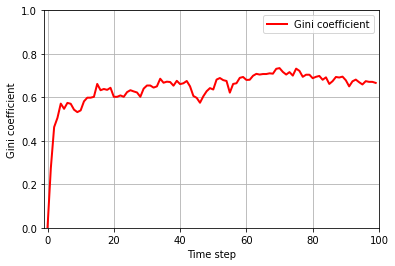
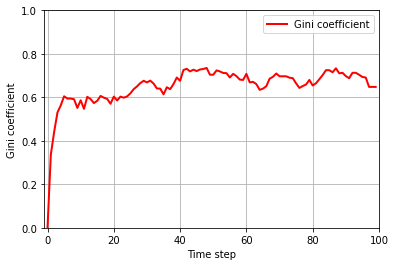
Update documentation

Changed region(s): [[0.1215, 0.2406, 0.9722, 0.5113], [0.1215, 0.5414, 0.1519, 0.7519]]

diff --git a/searchindex.js b/searchindex.js
@@ -1,1 +1,1 @@
-Search.setIndex({docnames:["docs/agent","docs/installation","docs/intro","docs/jupyter","docs/math","docs/ode","docs/pandas","docs/project","docs/python","docs/references"],envversion:{"sphinx.domains.c":2,"sphinx.domains.changeset":1,"sphinx.domains.citation":1,"sphinx.domains.cpp":3,"sphinx.domains.index":1,"sphinx.domains.javascript":2,"sphinx.domains.math":2,"sphinx.domains.python":2,"sphinx.domains.rst":2,"sphinx.domains.std":2,"sphinx.ext.intersphinx":1,"sphinxcontrib.bibtex":7,sphinx:56},filenames:["docs/agent.ipynb","docs/installation.md","docs/intro.md","docs/jupyter.ipynb","docs/math.md","docs/ode.ipynb","docs/pandas.ipynb","docs/project.md","docs/python.ipynb","docs/references.md"],objects:{},objnames:{},objtypes:{},terms:{"0000":0,"000000":6,"0001":5,"0002":8,"00233":9,"0996":8,"100":[0,5,8],"1000":[5,8],"101":0,"1021":9,"1111":9,"1200":5,"130":5,"1415":8,"162":8,"1751":9,"1960":4,"1998":9,"1pigvvn":9,"200":5,"2000":5,"2009":9,"2010":9,"2011":9,"2013":9,"2016":9,"20210722":8,"20210802":8,"2022":2,"205":8,"2391":8,"2456":[],"2744":0,"300":[],"3000":5,"350853":6,"3512":[],"3600":[],"365":5,"4000":[],"4472":[],"4632":0,"4664":[],"500":5,"5000":[0,5,8],"500000":6,"5056":0,"5712":0,"572":9,"584":9,"600":5,"656":[],"774":8,"7915":9,"800":5,"8961":8,"9598":[],"9999":8,"case":[5,8],"class":[0,4,5,6],"default":[1,5,8],"export":6,"f\u00f6r":7,"final":[0,2,3,5],"float":8,"function":[0,3,5,6],"import":[0,2,3,4,5,6],"int":[0,8],"long":7,"new":[1,7,8],"return":[0,5,8],"short":[5,7,8],"static":5,"super":0,"true":[0,5,6,8],"try":7,"v\u00e4gledn":7,"while":[5,7],Axes:8,For:[5,8],Not:8,ODEs:2,One:[2,8],The:[0,1,2,4,5,6,7,8],Their:7,There:[0,4,5,8],These:[0,8],With:5,__dict__:[],__init__:[0,5,8],__weakref__:[],_arg:[],a_list:8,abil:7,abm:[0,2,4],about:8,abov:[5,8],academia:7,access:[2,8],accomplish:[8,9],accord:[5,7,8],accumul:[0,5,8],accur:[],act:[0,4],action:[0,7],activ:[1,7],adapt:4,add:0,addit:[1,5,6,8],adopt:[2,8],advanc:4,affect:4,after:[0,8],agent:[2,4,7,8],agent_df:0,agent_idx:0,agent_report:0,agent_wealth:0,agentid:0,air:5,alc_with_lowest_bp:8,alcohol:8,algorithm:8,alic:6,align:[4,5,8],alik:7,all:[0,2,4,7,8],allow:[0,1,2,3,5,6],almost:8,alpha:[4,5],alreadi:[7,8],also:[0,3,4,5,6,8],altern:[5,8],alwai:8,amount:[7,8],anaconda:1,analysi:[0,6,8,9],analyt:8,andersen:[7,9],ani:[2,7],anlys:6,anoth:5,appeal:4,appear:[4,5],append:5,applic:[3,4],approach:[2,4,5],approx:5,approxim:[5,7],arang:3,area:[2,8],arg:5,arguabl:2,argument:[5,8],around:[0,4],arrai:5,arrang:8,artist:8,as13:[2,7,9],ascend:6,associ:[5,8],asterisk:1,attribut:0,author:[2,8],auto:8,automat:[6,8],autonom:0,autosc:8,avail:[2,3,5,8],averag:6,axes:5,axhlin:[3,6],axi:8,b_dict:8,back:4,bai98:[4,7,9],bailei:[4,7,9],bar:[6,8],barcontain:8,barh:8,barri:7,barstack:8,base64:[],base:[1,2,4,7,8],basic:[2,4,5,8],bb1220:2,beatric:6,becom:[2,5],been:8,befor:[],begin:[0,1,4,5],behav:[7,8],behavior:0,behaviour:4,belong:0,below:[0,3,8],benefit:[6,8],best:2,beta:[4,5],better:[2,5],between:[7,8],big:[0,5],bin:[0,8],biochem:[7,9],biolog:[4,5,7],biologi:[2,9],biologist:7,biotech:9,biotechnolog:[2,4,9],bit:1,bitrat:[],blit:[],blood:7,blueprint:8,bodi:7,boil:8,bone:7,book:[2,7,8],bool:8,bordel:9,both:[0,3,4],bottom:8,bp9701269:9,browser:[1,3],build:[0,4],built:[6,8],builtin:[],bygg:9,c6h11oh:8,c6h5:8,cach:[],cache_frame_data:[],calcul:[0,8],call:[5,7],callabl:[],callback:[],can:[0,1,3,4,5,6,7,8],cannot:8,canva:2,capit:8,catalyst:7,catalyz:7,categori:0,cb1020:2,cbn11:[4,7,9],ceasar:6,cell:[0,1,7,9],cellmat:0,cellular:7,celsiu:8,center:8,central:5,certain:[5,6],certifi:1,ch2oh:8,ch3:8,ch3oh:8,chanc:8,chang:[3,5],chapter:7,chart:8,checkpoint:3,chemic:[7,8],choh:8,choic:[0,2,5,8],choos:2,chosen:8,circ:5,circl:5,clean:6,clear:[4,8],cleft:7,code:[1,2,8],codec:[],coeffici:[0,4],coher:8,collect:[4,5],collector:0,color:[0,3,6,8],column:[0,6,8],com:9,combin:3,come:[1,3,5],comma:6,command:[1,3],comment:3,common:[7,8],commun:[7,8],compar:[3,8],comparison:[5,8],compart:7,complet:[],complex:[4,7,8],compon:7,compos:4,compound:7,comput:[0,1,4,5,8],compute_gini:0,concern:[5,8],conda:1,conduct:[2,5],conjunct:8,connect:7,consecut:[],consid:5,constant:5,construct:6,constructor:8,contain:[0,1,3,5,7,8],contrast:7,contribut:[2,8],control:6,conveni:[5,8],convent:3,convert:[0,3],copi:3,copyright:[],core:9,cornerston:4,correspond:[5,6],cost:5,could:7,count:[6,8],counterpart:7,cours:[2,5,7],creat:[0,1,2,4,5,8],creation:8,cross:[0,7],csv:6,ctrl:3,cumul:8,current:0,current_fram:[],cursor:3,cvijov:[4,7,9],cyclohexanol:8,d2u_dx2:5,dai:5,damp:5,dash:3,data1:8,data2:8,data:[],datacollect:0,datacollector:0,datafram:0,datapoint:8,dataset:8,date:[2,4],dator:9,david:6,death:5,decid:[],decis:[2,4],decreas:5,deepen:2,def:[0,5,8],default_mod:[],defin:[0,5,8],degre:8,delai:[],delivar:2,delta:[4,5],denot:5,densiti:8,depend:[1,3],depict:5,deriv:[0,3,5],describ:[4,5,6,8],descript:[2,8],descriptor:[],design:7,detail:[3,8],determin:[0,7],develop:[7,8],deviat:8,diagon:0,dict:[],dictionari:8,dictonari:[6,8],did:5,diff:8,differ:[0,2,7,8],differenti:[2,4],difficult:4,diffus:[5,7],dimens:8,dimension:[5,8],direct:8,directli:[],disabl:[],disciplinari:7,discret:5,discuss:2,diseas:[4,7],displai:[6,8],disposit:7,distinguish:7,distribut:[0,8],divid:[5,8],doan:8,doc:[1,2],document:[2,3],doi:9,doing:[3,5],dot:8,dpi:[],draw:8,drawn:8,drive:2,dropbox:2,dtype:[6,8],due:5,dure:[],dydt:5,dynam:[4,5],each:[0,2,8],earli:4,eat:7,ecosystem:7,edg:8,edit:[2,3,9],effect:8,effici:8,either:8,elapsed_tim:[],element:[3,6,7,8],elementari:3,els:7,emb:[],embed:[],embed_fram:[],embed_limit:[],empti:[0,8],enabl:[1,5,7,8],encapsul:8,encod:[],end:[2,4,5,8],engin:[2,5,6,7,8,9],enter:[0,1,3],entiti:0,enumer:[0,8],env:1,environ:[1,4,7],enzym:7,epidemiolog:4,equal:[4,5,6,8],equat:[2,3,4],equip:8,equival:[],erl:9,error:5,etc:[3,6,8],ethanol:8,euler:[],euler_step:5,eva:9,even:8,event:[],everi:[0,2,5,7],everyth:[7,8],evid:5,evolut:5,evult:[],exact:5,exam:6,examin:6,exampl:[2,5,8],exceed:[],excel:[6,7],except:8,exchang:7,excitatori:7,exclud:8,execut:[1,8],exemplifi:5,exhaust:2,exist:[],exlibrisgroup:9,exp:[5,8],expect:[7,8],experi:[2,8],explain:[3,4],expos:0,extens:[3,8],extra:[],extra_anim:[],extra_arg:[],extract:0,factor:8,factori:9,fallback:[],fals:[0,8],famili:5,famou:7,far:[2,3],farg:5,fast:8,faster:[7,8],favorit:8,feel:[7,8],few:1,ffmpeg:[],field:4,fig:[3,5],fignam:8,figsiz:[3,5],figur:[3,5],file:[3,6,8],filenam:[],fill:[2,8],filter:8,final_wealth_df:0,find:[0,5,7],first:[0,5,6,7,8],fix:8,flexibl:8,float64:6,focal:2,focu:[2,4],folder:2,follow:[1,3,7,8],forest:4,forg:1,form:[2,3,7,8],format:[2,3,6,8],former:4,formula:8,fourth:5,fps:[],frac:[0,4,5,8],fraction:8,frame:5,frame_numb:5,framework:0,free:[7,8],friction:5,from:[0,1,2,3,4,5,7,8],func:[],funcanim:5,further:[3,4],futur:[2,7,9],gamma:[4,5],gaussian:8,gca:[0,3,5,6,8],gen_funct:[],gener:[0,2,5,7,8],genr:[],genrer:7,geometr:8,geometri:8,get:[1,3,5,8],get_agent_vars_datafram:0,get_cell_list_cont:0,get_model_vars_datafram:0,get_neighborhood:0,gif:[],gini:0,github:9,give:[0,8],give_monei:0,given:[2,5,8],gledn:9,global:0,good:[2,5,7,8],googl:2,govern:0,gradual:5,granular:4,great:8,greater:[5,8],grid:[0,5,8],ground:7,group:[0,2,7],growth:5,guid:7,guidelin:2,h264:[],half:8,handl:[0,6],harmon:5,has:[0,5,6,7,8],have:[2,3,7,8],head:[0,6],heattransferwal:5,height:[0,8],help:[],here:[],herod:[2,7,9],heurist:4,hierarch:2,high:8,higher:5,highli:8,hist2d:8,hist:[0,8],histogram:8,histogram_bin_edg:8,histtyp:8,hiv:7,hold:0,horizont:8,host:9,hour:[],howev:[2,4,5,8],html5:[],html:1,http:[1,9],human:3,idea:8,ident:8,identifi:5,idxmax:0,ignor:8,iii:2,illustr:[4,5],imagin:8,implement:[0,2,3,5,8],inch:[],includ:[0,1,3,7,8],include_cent:0,increas:[0,4,5],increment:8,independ:8,index:8,indic:[0,1,4],indispens:8,individu:[0,2,4,8],industri:[4,7,9],infect:7,infecti:4,infer:[],inform:7,inherit:[],inhibitori:7,init_func:[],initi:5,ink:7,inner:[],input:8,inspir:[4,7],instanc:4,instanti:0,instead:8,integ:[0,8],integr:[5,8],intel:8,interact:[0,1,4,5,7],interest:7,interfac:[0,3],intermedi:5,interneuron:7,interpret:8,interv:[3,5],introduc:[3,5,7,8],introduct:[4,7,8,9],intuit:[2,8],invest:7,invit:[5,8],involv:5,ipynb:3,isol:8,isopropanol:8,item:8,iter:[],iterable_of_artist:[],itertool:[],its:[0,3,5,7,8],itself:7,jake:[8,9],jakevdp:9,jame:9,javascript:0,jen:9,json:3,jupyt:1,jupyterlab:1,just:[],k_1:5,k_2:5,k_3:5,k_4:5,keep:2,kei:[3,4,5,8],kept:8,kernel:8,keyword:8,kilobit:[],kind:6,kinet:7,knowhow:7,knowledg:5,known:5,kth:[2,9],kurslitteratur:9,kvalitet:9,kwarg:8,label:[5,8],lambda:5,landscap:0,languag:2,larg:[1,7,8],last:[0,8],latent:7,latest:1,launch:0,ldot:0,lead:7,leader:2,leadership:2,learn:[4,7],least:2,leav:3,left:8,legend:[5,8],len:[0,8],length:8,leq:[0,5],less:[5,8],let:[0,5,8],level:[0,7],librari:8,life:7,lightgrei:6,like:[6,7,8],limit:[2,4,5,6,7],limt:0,line2d:5,line:[1,3,5,6,8],linear:5,lineplot:8,linewidth:[3,8],link:3,linspac:5,linux:[1,8],list:[0,1,2,3,6,8],live:7,load:2,locat:8,log:[2,8],logic:8,loop:8,lotka:[4,5],lotka_volterra:5,lower:8,lowest:8,lowest_bp:8,maco:[1,8],macroscop:4,made:[2,4,5,8],magnitud:8,mai:[3,4,5,7,8],main:4,make:[2,3,4,5,7],makinng:4,mammal:7,manag:[0,1],mani:7,manipul:8,manner:3,mapl:[2,9],marija:9,mark:[1,2],markdown:3,mask:8,match:8,materi:[2,7],math:8,mathbf:5,mathemat:[2,3,5,7,8,9],matlab:[2,9],matmul:8,matplotlib:[0,1,3,5,6,8],matric:8,matrix:8,max:[0,6,8],max_wealth:0,maximum:0,mean:[2,5,6,8],mechan:5,mediat:7,medium:5,meet:2,member:[2,4,5],membership:8,membran:7,mentor:2,merg:[3,6],mesa:[1,8],metabol:7,metadata:[],metal:7,methanol:8,method:[0,2,3,6,8],metric:0,microbi:9,microscop:4,microsoft:[2,6],mid:8,might:[],millisecond:[],min:[5,6,8],miniconda:1,minim:1,minor:2,minut:2,mixtur:7,mkl:8,mode:3,model:[2,7,8,9],model_df:0,model_report:0,moder:7,modern:4,modifi:1,modul:[0,3,6],molecul:7,moneyag:0,moneymodel:0,moor:0,more:[3,4,5,8],most:[2,4,5,6,8],move:[0,9],move_ag:0,movement:7,movi:[],moviewrit:[],mp4:[],much:7,mulitpl:8,multi:[2,8],multigrid:0,multipl:[0,1,8],multistep:7,must:8,myenv:1,mymovi:[],name:[1,2,4,5,6,8],natur:[4,5,8],nbin:8,ndarrai:8,need:[2,5,7,8],neuron:7,neurotransmitt:7,never:8,new_frame_seq:[],new_posit:0,new_saved_frame_seq:[],newtonian:5,next:[],nielsen:9,non:[0,8],none:8,nonliv:7,nontrivi:5,nonzero:0,normal:[7,8],note:8,notebook:[1,5,8],notifi:[],now:1,nstep:[],num:5,num_ag:0,number:[0,1,4,8],number_el:5,numer:[4,8],numpi:[1,3,5,8],obj:[],object:[5,6],observ:7,obtain:[2,5],obviou:4,obvious:8,occupi:7,occur:[0,7],och:9,odeint:5,offer:8,offic:2,omit:[],omnipres:7,onc:7,one:[0,1,2,3,5,8],one_agent_wealth_df:0,onedr:2,ones:[5,8],onli:[1,5,7,8],open:[1,8],openmp:8,opportun:[5,9],optim:8,option:8,orbit:5,order:[0,5,8],ordinari:2,org:9,organ:[0,3,7],orient:5,oscil:5,other:[0,1,3,7,8],our:[0,5,7],out:[7,8],outcom:0,outer:[],outlier:8,output:[],outsid:2,over:[5,8],overal:[0,7],overemphas:8,overleaf:2,overrid:[],packag:1,page:2,panda:[0,8],paragraph:3,paramet:[0,4,5,8],parametr:5,parasit:7,part:2,partial:5,particip:2,particl:[5,7],particular:3,pass:[5,6,8],past:[3,9],patch:8,patches0:8,patches1:8,path_to_fil:6,pdf:[2,8],peer:2,per:[2,8],perform:[5,6,8],period:[5,7],permalink:9,permeas:7,person:2,phase:5,phenomena:[2,4,7],phenomenolog:4,phenylmethanol:8,pillow:[],pip:1,place_ag:0,plai:5,platform:8,plot:3,plot_setup:[],plot_upd:5,plt:[0,3,5,6,8],plu:8,png:8,point:[2,5,6,8],polygon:8,popul:[0,4,5],portabl:2,pos:0,posit:[0,3,5],possibl:[7,8],possible_step:0,postsynapt:7,potenti:[7,8],power:[4,6],powershel:1,ppm:5,practic:[2,5,8],predat:[4,5],predatorpreymodel:5,predeifin:8,predict:4,prei:[4,5],preliminari:2,present:[2,5,8],press:3,presynapt:7,previou:[],primo:9,principl:2,print:[0,6,8],probabl:8,problem:[7,8],process:[4,7],processor:8,product:[7,8],prog:9,program:[2,3,5],progress:[],progress_callback:[],project:[2,8],projektarbet:[7,9],projektledn:9,promin:5,promot:4,prompt:1,propag:5,properti:[5,8],propog:5,proport:5,protein:7,prototyp:8,provid:[3,4,5,7,8],pseudo:8,pyplot:[0,3,5,6,8],python:[0,1,2,3,5,9],qquad:5,quad:5,qualiti:[],question:7,quicker:7,quit:5,r_0:4,rais:8,rand:8,random:[0,7,8],randomactiv:0,randomli:[0,2],randrang:0,rang:[0,2,5,8],rate:[5,7],rather:8,ration:2,raw:8,reach:7,reaction:7,read:[6,8],read_excel:6,readabl:[3,8],readi:1,readili:[3,8],readthrough:7,real:7,recent:4,recommend:[1,8],record:[0,2,4],reduc:5,refer:[1,2,4,5,7,8],reflect:2,regardless:[],regener:7,regul:7,regular:0,reilli:9,rel:8,relat:[5,7],releas:7,relev:8,remain:[0,8],rememb:3,repeat:[],repeat_delai:[],repeatedli:[],replac:5,report:2,repositori:1,repres:[4,5,8],represent:[],reproduc:8,reproduct:4,requir:[0,5,7,8],reshap:[6,8],resiz:[],resolut:[],respect:[0,4,5],result:[3,5,6,8],retain:7,retriev:1,reveal:[5,8],revers:8,review:[2,4,7],rice:8,rich:2,right:8,righthand:8,risk:4,rk4:5,role:[2,5],ronald:9,routin:8,row:0,rule:[4,7],run:[1,3,5],runtimeerror:[],rwidth:8,sai:6,same:[0,8],satur:7,save:[3,5,8],save_count:[],savefig:8,savefig_kwarg:[],scalar:[5,8],scale:[4,8],schedul:0,scheme:5,schwenck:[7,9],scienc:[5,8],scientif:1,scipi:[1,5,8],scott:8,script:8,search:8,sec:5,second:[2,5,8,9],section:[0,3],see:[2,4,8],seed:8,seemingli:4,seen:5,select:[2,6,7],self:[0,2,5,8],semant:8,sens:[2,7],separ:[2,7,8],separatp:6,seper:3,sequenc:[0,8],sergio:9,seri:0,serv:[5,7],server:0,set:[2,4,5,8],set_data:5,set_text:5,setp:[0,3,5,6,8],sever:[2,6,8],sh09:[2,7,9],shall:5,shape:8,share:[2,8],sheet1:6,sheet:[2,6],sheet_nam:6,shift:[3,8],shonkwil:[2,7,9],shorter:8,should:[1,2,5,8],show:[0,3,5,6,8],side:8,sight:5,sigma:8,signal:7,signatur:[],significantli:8,similar:7,simpl:8,simplest:7,simpli:[],simul:4,sin:[3,5],singl:[0,4,8],sit:7,size:[],skill:[2,7],skillset:7,slide:2,slower:8,slowli:7,small:1,smaller:[5,8],soft:7,softwar:[5,8],solid:5,solubl:7,solut:[2,8],solv:5,some:5,someon:8,sort:[0,6],sort_valu:6,sourc:[1,7,8],space:[0,5,7,8],span:7,spatial:[],specif:[0,7,8],specifi:[4,8],speed:[],split:3,spread:4,spring:5,springer:9,sqrt:8,srcform:[],stabil:5,stabl:[5,8],stack:8,standard:[6,8],start:[0,1,3,8],state:[5,8],statement:[0,1,8],statist:6,std:[6,8],stdout:[],step:[0,5,8],step_idx:0,stepfil:8,stochast:4,stone:8,store:[5,8],str:8,straighforward:5,straightforward:5,strategi:8,strength:4,string:8,strongli:8,structur:0,student:[2,6,7,9],studentlitteratur:9,studi:[5,7],sturg:8,subject:[],substrat:7,suggest:3,suit:2,sum:[0,7,8],sum_:0,summar:4,superior:5,suppli:[],support:[1,8],synapt:7,syntax:8,system:[0,1,4,5,7],t_0:5,t_insid:5,t_outsid:5,tab:3,tag:[],tail:0,take:[2,5,7,8],target:2,task:8,team:[2,8],technic:2,teknik:9,temperatur:[5,7],tempt:8,tend:7,term:[5,8],termin:1,test:8,text:[5,8],than:[5,7,8],thei:[1,5,7],them:[0,2,7],themselv:0,thereaft:5,therefor:2,thermal:5,thi:[0,1,2,3,5,6,7],thick:5,think:7,third:5,those:[4,6,7],thought:6,thread:8,three:[0,2,3,7],through:[],thu:[2,5,7],time:[0,5,7,8],time_text:5,timedanim:[],tissu:7,titl:[0,2,3,5,7,8],tn_cdi_springer_books_10_1007_978_0_387_70984_0:9,to_html5_video:[],to_jshtml:[],togeth:[5,8],too:[],tool:[0,2,6,8],top:8,topic:7,topolog:4,total:[0,8],total_fram:[],tour:[8,9],toward:[2,8,9],track:[4,7],tradit:8,train:[2,7],transform:[5,7],transmembran:7,transmiss:7,transport:7,transpos:8,treat:[7,8],treatment:7,tree:4,triangl:8,trigger:7,trivial:5,tupl:8,turn:[3,5],turnov:7,twinx:5,two:[0,2,4,5,8],tyical:8,type:[3,7],typic:[1,4,5,7,8],uncatalyz:7,under:8,underli:[6,8],understand:[0,2],unequ:8,unfil:8,uniqu:3,unique_id:0,unit:0,unless:8,unus:[],updat:5,upload:2,upon:2,upper:8,uptak:7,url:9,use:[0,2,3,4,5,7,8],used:[0,2,5,7,8],useful:1,user:[2,5,8],uses:8,using:[0,2,3,6,8],usual:[5,8],vai:5,valu:[0,5,6,8],valuabl:7,van16:[8,9],vanderpla:[8,9],variabl:5,variat:5,variou:[4,7],vast:8,vector:8,veloc:5,veri:[2,5,7],versatil:2,version:[1,2],vertic:8,via:[3,8],video:[],viru:7,visual:[0,8],volterra:[4,5],w3school:8,wai:[6,8],walk:0,wall:[],water:7,weak:4,wealth:0,web:[1,3,8],websit:1,weight:8,welcom:2,well:[2,7],were:[],what:0,when:[5,8],where:[0,4,5,8],whether:7,which:[0,1,2,4,5,7,8],whirlwind:[8,9],whirlwindtourofpython:9,wide:[2,5],widespread:2,width:[0,8],window:[1,8],without:[],word:[0,8],work:[1,2,4,5,6,8],would:[6,8],wrangl:6,write:5,writer:[],written:[1,3,4,5,7,8],www:9,x_i:0,xlabel:[0,3,5,8],xlim:[0,3,5,8],xls:6,xtick:0,xticklabel:6,y0_l:5,y_1:5,y_2:5,year:2,yet:2,yield:8,ylabel:[0,3,5,6,8],ylim:[0,3,5,8],you:[1,2,3,6,7,8],your:[0,1,2,3,6,7,8],ytick:0,zero:[5,8],zlib:1,zorder:[]},titles:["Agent-based modeling","Software installation","Introduction","Jupyter notebook","Mathematical modeling","Differential equations","Pandas","Project work","Python for this course","References"],titleterms:{"class":8,"function":8,"import":8,ODE:5,ODEs:5,agent:0,analys:6,analysi:5,anim:5,arrai:8,auto:3,base:0,bonu:5,cell:3,code:3,collect:0,commun:2,complet:3,condit:8,content:2,cours:8,creat:6,data:[0,6,8],datafram:6,deliver:2,dictionari:6,differ:5,differenti:5,document:8,equat:5,essenti:3,euler:5,exampl:3,explicit:5,fdm:5,figur:8,finit:5,form:5,from:6,heat:5,help:8,implicit:5,instal:1,introduct:2,iter:8,jupyt:3,keyboard:3,kutta:5,librari:5,manipul:6,materi:5,mathemat:4,mesa:0,method:5,model:[0,4,5],modul:8,motiv:8,necess:8,notebook:3,numer:5,object:8,oper:8,ordinari:5,organ:2,orient:8,panda:6,plot:[0,5,6,8],program:8,project:7,propos:7,python:[6,8],refer:9,result:0,run:0,rung:5,shortcut:3,simul:0,softwar:1,solut:5,solver:5,some:8,spreadsheet:6,store:0,text:3,thi:8,through:5,tip:3,transfer:5,type:8,wall:5,work:7}})
+Search.setIndex({docnames:["docs/agent","docs/installation","docs/intro","docs/jupyter","docs/math","docs/ode","docs/pandas","docs/project","docs/python","docs/references"],envversion:{"sphinx.domains.c":2,"sphinx.domains.changeset":1,"sphinx.domains.citation":1,"sphinx.domains.cpp":3,"sphinx.domains.index":1,"sphinx.domains.javascript":2,"sphinx.domains.math":2,"sphinx.domains.python":2,"sphinx.domains.rst":2,"sphinx.domains.std":2,"sphinx.ext.intersphinx":1,"sphinxcontrib.bibtex":7,sphinx:56},filenames:["docs/agent.ipynb","docs/installation.md","docs/intro.md","docs/jupyter.ipynb","docs/math.md","docs/ode.ipynb","docs/pandas.ipynb","docs/project.md","docs/python.ipynb","docs/references.md"],objects:{},objnames:{},objtypes:{},terms:{"0000":0,"000000":6,"0001":5,"0002":8,"00233":9,"0996":8,"100":[0,5,8],"1000":[5,8],"101":0,"1021":9,"1111":9,"1200":5,"130":5,"1415":8,"162":8,"1751":9,"1960":4,"1998":9,"1pigvvn":9,"200":5,"2000":5,"2009":9,"2010":9,"2011":9,"2013":9,"2016":9,"20210722":8,"20210802":8,"2022":2,"205":8,"2391":[],"2456":[],"2744":[],"300":[],"3000":5,"3368":0,"350853":6,"3512":[],"3600":[],"365":5,"4000":[],"4408":0,"4472":[],"4632":[],"4664":[],"4939":8,"500":5,"5000":[0,5,8],"500000":6,"5056":[],"5304":0,"5632":0,"5712":[],"572":9,"584":9,"600":5,"6340":8,"656":[],"774":[],"789":8,"7915":9,"800":5,"8961":[],"9598":[],"9999":8,"case":[5,8],"class":[0,4,5,6],"default":[1,5,8],"export":6,"f\u00f6r":7,"final":[0,2,3,5],"float":8,"function":[0,3,5,6],"import":[0,2,3,4,5,6],"int":[0,8],"long":7,"new":[1,7,8],"return":[0,5,8],"short":[5,7,8],"static":5,"super":0,"true":[0,5,6,8],"try":7,"v\u00e4gledn":7,"while":[5,7],Axes:8,For:[5,8],Not:8,ODEs:2,One:[2,8],The:[0,1,2,4,5,6,7,8],Their:7,There:[0,4,5,8],These:[0,8],With:5,__dict__:[],__init__:[0,5,8],__weakref__:[],_arg:[],a_list:8,abil:7,abm:[0,2,4],about:8,abov:[5,8],academia:7,access:[2,8],accomplish:[8,9],accord:[5,7,8],accumul:[0,5,8],accur:[],act:[0,4],action:[0,7],activ:[1,7],adapt:4,add:0,addit:[1,5,6,8],adopt:[2,8],advanc:4,affect:4,after:[0,8],agent:[2,4,7,8],agent_df:0,agent_idx:0,agent_report:0,agent_wealth:0,agentid:0,air:5,alc_with_lowest_bp:8,alcohol:8,algorithm:8,alic:6,align:[4,5,8],alik:7,all:[0,2,4,7,8],allow:[0,1,2,3,5,6],almost:8,alpha:[4,5],alreadi:[7,8],also:[0,3,4,5,6,8],altern:[5,8],alwai:8,amount:[7,8],anaconda:1,analysi:[0,6,8,9],analyt:8,andersen:[7,9],ani:[2,7],anlys:6,anoth:5,appeal:4,appear:[4,5],append:5,applic:[3,4],approach:[2,4,5],approx:5,approxim:[5,7],arang:3,area:[2,8],arg:5,arguabl:2,argument:[5,8],around:[0,4],arrai:5,arrang:8,artist:8,as13:[2,7,9],ascend:6,associ:[5,8],asterisk:1,attribut:0,author:[2,8],auto:8,automat:[6,8],autonom:0,autosc:8,avail:[2,3,5,8],averag:6,axes:5,axhlin:[3,6],axi:8,b_dict:8,back:4,bai98:[4,7,9],bailei:[4,7,9],bar:[6,8],barcontain:8,barh:8,barri:7,barstack:8,base64:[],base:[1,2,4,7,8],basic:[2,4,5,8],bb1220:2,beatric:6,becom:[2,5],been:8,befor:[],begin:[0,1,4,5],behav:[7,8],behavior:0,behaviour:4,belong:0,below:[0,3,8],benefit:[6,8],best:2,beta:[4,5],better:[2,5],between:[7,8],big:[0,5],bin:[0,8],biochem:[7,9],biolog:[4,5,7],biologi:[2,9],biologist:7,biotech:9,biotechnolog:[2,4,9],bit:1,bitrat:[],blit:[],blood:7,blueprint:8,bodi:7,boil:8,bone:7,book:[2,7,8],bool:8,bordel:9,both:[0,3,4],bottom:8,bp9701269:9,browser:[1,3],build:[0,4],built:[6,8],builtin:[],bygg:9,c6h11oh:8,c6h5:8,cach:[],cache_frame_data:[],calcul:[0,8],call:[5,7],callabl:[],callback:[],can:[0,1,3,4,5,6,7,8],cannot:8,canva:2,capit:8,catalyst:7,catalyz:7,categori:0,cb1020:2,cbn11:[4,7,9],ceasar:6,cell:[0,1,7,9],cellmat:0,cellular:7,celsiu:8,center:8,central:5,certain:[5,6],certifi:1,ch2oh:8,ch3:8,ch3oh:8,chanc:8,chang:[3,5],chapter:7,chart:8,checkpoint:3,chemic:[7,8],choh:8,choic:[0,2,5,8],choos:2,chosen:8,circ:5,circl:5,clean:6,clear:[4,8],cleft:7,code:[1,2,8],codec:[],coeffici:[0,4],coher:8,collect:[4,5],collector:0,color:[0,3,6,8],column:[0,6,8],com:9,combin:3,come:[1,3,5],comma:6,command:[1,3],comment:3,common:[7,8],commun:[7,8],compar:[3,8],comparison:[5,8],compart:7,complet:[],complex:[4,7,8],compon:7,compos:4,compound:7,comput:[0,1,4,5,8],compute_gini:0,concern:[5,8],conda:1,conduct:[2,5],conjunct:8,connect:7,consecut:[],consid:5,constant:5,construct:6,constructor:8,contain:[0,1,3,5,7,8],contrast:7,contribut:[2,8],control:6,conveni:[5,8],convent:3,convert:[0,3],copi:3,copyright:[],core:9,cornerston:4,correspond:[5,6],cost:5,could:7,count:[6,8],counterpart:7,cours:[2,5,7],creat:[0,1,2,4,5,8],creation:8,cross:[0,7],csv:6,ctrl:3,cumul:8,current:0,current_fram:[],cursor:3,cvijov:[4,7,9],cyclohexanol:8,d2u_dx2:5,dai:5,damp:5,dash:3,data1:8,data2:8,data:[],datacollect:0,datacollector:0,datafram:0,datapoint:8,dataset:8,date:[2,4],dator:9,david:6,death:5,decid:[],decis:[2,4],decreas:5,deepen:2,def:[0,5,8],default_mod:[],defin:[0,5,8],degre:8,delai:[],delivar:2,delta:[4,5],denot:5,densiti:8,depend:[1,3],depict:5,deriv:[0,3,5],describ:[4,5,6,8],descript:[2,8],descriptor:[],design:7,detail:[3,8],determin:[0,7],develop:[7,8],deviat:8,diagon:0,dict:[],dictionari:8,dictonari:[6,8],did:5,diff:8,differ:[0,2,7,8],differenti:[2,4],difficult:4,diffus:[5,7],dimens:8,dimension:[5,8],direct:8,directli:[],disabl:[],disciplinari:7,discret:5,discuss:2,diseas:[4,7],displai:[6,8],disposit:7,distinguish:7,distribut:[0,8],divid:[5,8],doan:8,doc:[1,2],document:[2,3],doi:9,doing:[3,5],dot:8,dpi:[],draw:8,drawn:8,drive:2,dropbox:2,dtype:[6,8],due:5,dure:[],dydt:5,dynam:[4,5],each:[0,2,8],earli:4,eat:7,ecosystem:7,edg:8,edit:[2,3,9],effect:8,effici:8,either:8,elapsed_tim:[],element:[3,6,7,8],elementari:3,els:7,emb:[],embed:[],embed_fram:[],embed_limit:[],empti:[0,8],enabl:[1,5,7,8],encapsul:8,encod:[],end:[2,4,5,8],engin:[2,5,6,7,8,9],enter:[0,1,3],entiti:0,enumer:[0,8],env:1,environ:[1,4,7],enzym:7,epidemiolog:4,equal:[4,5,6,8],equat:[2,3,4],equip:8,equival:[],erl:9,error:5,etc:[3,6,8],ethanol:8,euler:[],euler_step:5,eva:9,even:8,event:[],everi:[0,2,5,7],everyth:[7,8],evid:5,evolut:5,evult:[],exact:5,exam:6,examin:6,exampl:[2,5,8],exceed:[],excel:[6,7],except:8,exchang:7,excitatori:7,exclud:8,execut:[1,8],exemplifi:5,exhaust:2,exist:[],exlibrisgroup:9,exp:[5,8],expect:[7,8],experi:[2,8],explain:[3,4],expos:0,extens:[3,8],extra:[],extra_anim:[],extra_arg:[],extract:0,factor:8,factori:9,fallback:[],fals:[0,8],famili:5,famou:7,far:[2,3],farg:5,fast:8,faster:[7,8],favorit:8,feel:[7,8],few:1,ffmpeg:[],field:4,fig:[3,5],fignam:8,figsiz:[3,5],figur:[3,5],file:[3,6,8],filenam:[],fill:[2,8],filter:8,final_wealth_df:0,find:[0,5,7],first:[0,5,6,7,8],fix:8,flexibl:8,float64:6,focal:2,focu:[2,4],folder:2,follow:[1,3,7,8],forest:4,forg:1,form:[2,3,7,8],format:[2,3,6,8],former:4,formula:8,fourth:5,fps:[],frac:[0,4,5,8],fraction:8,frame:5,frame_numb:5,framework:0,free:[7,8],friction:5,from:[0,1,2,3,4,5,7,8],func:[],funcanim:5,further:[3,4],futur:[2,7,9],gamma:[4,5],gaussian:8,gca:[0,3,5,6,8],gen_funct:[],gener:[0,2,5,7,8],genr:[],genrer:7,geometr:8,geometri:8,get:[1,3,5,8],get_agent_vars_datafram:0,get_cell_list_cont:0,get_model_vars_datafram:0,get_neighborhood:0,gif:[],gini:0,github:9,give:[0,8],give_monei:0,given:[2,5,8],gledn:9,global:0,good:[2,5,7,8],googl:2,govern:0,gradual:5,granular:4,great:8,greater:[5,8],grid:[0,5,8],ground:7,group:[0,2,7],growth:5,guid:7,guidelin:2,h264:[],half:8,handl:[0,6],harmon:5,has:[0,5,6,7,8],have:[2,3,7,8],head:[0,6],heattransferwal:5,height:[0,8],help:[],here:[],herod:[2,7,9],heurist:4,hierarch:2,high:8,higher:5,highli:8,hist2d:8,hist:[0,8],histogram:8,histogram_bin_edg:8,histtyp:8,hiv:7,hold:0,horizont:8,host:9,hour:[],howev:[2,4,5,8],html5:[],html:1,http:[1,9],human:3,idea:8,ident:8,identifi:5,idxmax:0,ignor:8,iii:2,illustr:[4,5],imagin:8,implement:[0,2,3,5,8],inch:[],includ:[0,1,3,7,8],include_cent:0,increas:[0,4,5],increment:8,independ:8,index:8,indic:[0,1,4],indispens:8,individu:[0,2,4,8],industri:[4,7,9],infect:7,infecti:4,infer:[],inform:7,inherit:[],inhibitori:7,init_func:[],initi:5,ink:7,inner:[],input:8,inspir:[4,7],instanc:4,instanti:0,instead:8,integ:[0,8],integr:[5,8],intel:8,interact:[0,1,4,5,7],interest:7,interfac:[0,3],intermedi:5,interneuron:7,interpret:8,interv:[3,5],introduc:[3,5,7,8],introduct:[4,7,8,9],intuit:[2,8],invest:7,invit:[5,8],involv:5,ipynb:3,isol:8,isopropanol:8,item:8,iter:[],iterable_of_artist:[],itertool:[],its:[0,3,5,7,8],itself:7,jake:[8,9],jakevdp:9,jame:9,javascript:0,jen:9,json:3,jupyt:1,jupyterlab:1,just:[],k_1:5,k_2:5,k_3:5,k_4:5,keep:2,kei:[3,4,5,8],kept:8,kernel:8,keyword:8,kilobit:[],kind:6,kinet:7,knowhow:7,knowledg:5,known:5,kth:[2,9],kurslitteratur:9,kvalitet:9,kwarg:8,label:[5,8],lambda:5,landscap:0,languag:2,larg:[1,7,8],last:[0,8],latent:7,latest:1,launch:0,ldot:0,lead:7,leader:2,leadership:2,learn:[4,7],least:2,leav:3,left:8,legend:[5,8],len:[0,8],length:8,leq:[0,5],less:[5,8],let:[0,5,8],level:[0,7],librari:8,life:7,lightgrei:6,like:[6,7,8],limit:[2,4,5,6,7],limt:0,line2d:5,line:[1,3,5,6,8],linear:5,lineplot:8,linewidth:[3,8],link:3,linspac:5,linux:[1,8],list:[0,1,2,3,6,8],live:7,load:2,locat:8,log:[2,8],logic:8,loop:8,lotka:[4,5],lotka_volterra:5,lower:8,lowest:8,lowest_bp:8,maco:[1,8],macroscop:4,made:[2,4,5,8],magnitud:8,mai:[3,4,5,7,8],main:4,make:[2,3,4,5,7],makinng:4,mammal:7,manag:[0,1],mani:7,manipul:8,manner:3,mapl:[2,9],marija:9,mark:[1,2],markdown:3,mask:8,match:8,materi:[2,7],math:8,mathbf:5,mathemat:[2,3,5,7,8,9],matlab:[2,9],matmul:8,matplotlib:[0,1,3,5,6,8],matric:8,matrix:8,max:[0,6,8],max_wealth:0,maximum:0,mean:[2,5,6,8],mechan:5,mediat:7,medium:5,meet:2,member:[2,4,5],membership:8,membran:7,mentor:2,merg:[3,6],mesa:[1,8],metabol:7,metadata:[],metal:7,methanol:8,method:[0,2,3,6,8],metric:0,microbi:9,microscop:4,microsoft:[2,6],mid:8,might:[],millisecond:[],min:[5,6,8],miniconda:1,minim:1,minor:2,minut:2,mixtur:7,mkl:8,mode:3,model:[2,7,8,9],model_df:0,model_report:0,moder:7,modern:4,modifi:1,modul:[0,3,6],molecul:7,moneyag:0,moneymodel:0,moor:0,more:[3,4,5,8],most:[2,4,5,6,8],move:[0,9],move_ag:0,movement:7,movi:[],moviewrit:[],mp4:[],much:7,mulitpl:8,multi:[2,8],multigrid:0,multipl:[0,1,8],multistep:7,must:8,myenv:1,mymovi:[],name:[1,2,4,5,6,8],natur:[4,5,8],nbin:8,ndarrai:8,need:[2,5,7,8],neuron:7,neurotransmitt:7,never:8,new_frame_seq:[],new_posit:0,new_saved_frame_seq:[],newtonian:5,next:[],nielsen:9,non:[0,8],none:8,nonliv:7,nontrivi:5,nonzero:0,normal:[7,8],note:8,notebook:[1,5,8],notifi:[],now:1,nstep:[],num:5,num_ag:0,number:[0,1,4,8],number_el:5,numer:[4,8],numpi:[1,3,5,8],obj:[],object:[5,6],observ:7,obtain:[2,5],obviou:4,obvious:8,occupi:7,occur:[0,7],och:9,odeint:5,offer:8,offic:2,omit:[],omnipres:7,onc:7,one:[0,1,2,3,5,8],one_agent_wealth_df:0,onedr:2,ones:[5,8],onli:[1,5,7,8],open:[1,8],openmp:8,opportun:[5,9],optim:8,option:8,orbit:5,order:[0,5,8],ordinari:2,org:9,organ:[0,3,7],orient:5,oscil:5,other:[0,1,3,7,8],our:[0,5,7],out:[7,8],outcom:0,outer:[],outlier:8,output:[],outsid:2,over:[5,8],overal:[0,7],overemphas:8,overleaf:2,overrid:[],packag:1,page:2,panda:[0,8],paragraph:3,paramet:[0,4,5,8],parametr:5,parasit:7,part:2,partial:5,particip:2,particl:[5,7],particular:3,pass:[5,6,8],past:[3,9],patch:8,patches0:8,patches1:8,path_to_fil:6,pdf:[2,8],peer:2,per:[2,8],perform:[5,6,8],period:[5,7],permalink:9,permeas:7,person:2,phase:5,phenomena:[2,4,7],phenomenolog:4,phenylmethanol:8,pillow:[],pip:1,place_ag:0,plai:5,platform:8,plot:3,plot_setup:[],plot_upd:5,plt:[0,3,5,6,8],plu:8,png:8,point:[2,5,6,8],polygon:8,popul:[0,4,5],portabl:2,pos:0,posit:[0,3,5],possibl:[7,8],possible_step:0,postsynapt:7,potenti:[7,8],power:[4,6],powershel:1,ppm:5,practic:[2,5,8],predat:[4,5],predatorpreymodel:5,predeifin:8,predict:4,prei:[4,5],preliminari:2,present:[2,5,8],press:3,presynapt:7,previou:[],primo:9,principl:2,print:[0,6,8],probabl:8,problem:[7,8],process:[4,7],processor:8,product:[7,8],prog:9,program:[2,3,5],progress:[],progress_callback:[],project:[2,8],projektarbet:[7,9],projektledn:9,promin:5,promot:4,prompt:1,propag:5,properti:[5,8],propog:5,proport:5,protein:7,prototyp:8,provid:[3,4,5,7,8],pseudo:8,pyplot:[0,3,5,6,8],python:[0,1,2,3,5,9],qquad:5,quad:5,qualiti:[],question:7,quicker:7,quit:5,r_0:4,rais:8,rand:8,random:[0,7,8],randomactiv:0,randomli:[0,2],randrang:0,rang:[0,2,5,8],rate:[5,7],rather:8,ration:2,raw:8,reach:7,reaction:7,read:[6,8],read_excel:6,readabl:[3,8],readi:1,readili:[3,8],readthrough:7,real:7,recent:4,recommend:[1,8],record:[0,2,4],reduc:5,refer:[1,2,4,5,7,8],reflect:2,regardless:[],regener:7,regul:7,regular:0,reilli:9,rel:8,relat:[5,7],releas:7,relev:8,remain:[0,8],rememb:3,repeat:[],repeat_delai:[],repeatedli:[],replac:5,report:2,repositori:1,repres:[4,5,8],represent:[],reproduc:8,reproduct:4,requir:[0,5,7,8],reshap:[6,8],resiz:[],resolut:[],respect:[0,4,5],result:[3,5,6,8],retain:7,retriev:1,reveal:[5,8],revers:8,review:[2,4,7],rice:8,rich:2,right:8,righthand:8,risk:4,rk4:5,role:[2,5],ronald:9,routin:8,row:0,rule:[4,7],run:[1,3,5],runtimeerror:[],rwidth:8,sai:6,same:[0,8],satur:7,save:[3,5,8],save_count:[],savefig:8,savefig_kwarg:[],scalar:[5,8],scale:[4,8],schedul:0,scheme:5,schwenck:[7,9],scienc:[5,8],scientif:1,scipi:[1,5,8],scott:8,script:8,search:8,sec:5,second:[2,5,8,9],section:[0,3],see:[2,4,8],seed:8,seemingli:4,seen:5,select:[2,6,7],self:[0,2,5,8],semant:8,sens:[2,7],separ:[2,7,8],separatp:6,seper:3,sequenc:[0,8],sergio:9,seri:0,serv:[5,7],server:0,set:[2,4,5,8],set_data:5,set_text:5,setp:[0,3,5,6,8],sever:[2,6,8],sh09:[2,7,9],shall:5,shape:8,share:[2,8],sheet1:6,sheet:[2,6],sheet_nam:6,shift:[3,8],shonkwil:[2,7,9],shorter:8,should:[1,2,5,8],show:[0,3,5,6,8],side:8,sight:5,sigma:8,signal:7,signatur:[],significantli:8,similar:7,simpl:8,simplest:7,simpli:[],simul:4,sin:[3,5],singl:[0,4,8],sit:7,size:[],skill:[2,7],skillset:7,slide:2,slower:8,slowli:7,small:1,smaller:[5,8],soft:7,softwar:[5,8],solid:5,solubl:7,solut:[2,8],solv:5,some:5,someon:8,sort:[0,6],sort_valu:6,sourc:[1,7,8],space:[0,5,7,8],span:7,spatial:[],specif:[0,7,8],specifi:[4,8],speed:[],split:3,spread:4,spring:5,springer:9,sqrt:8,srcform:[],stabil:5,stabl:[5,8],stack:8,standard:[6,8],start:[0,1,3,8],state:[5,8],statement:[0,1,8],statist:6,std:[6,8],stdout:[],step:[0,5,8],step_idx:0,stepfil:8,stochast:4,stone:8,store:[5,8],str:8,straighforward:5,straightforward:5,strategi:8,strength:4,string:8,strongli:8,structur:0,student:[2,6,7,9],studentlitteratur:9,studi:[5,7],sturg:8,subject:[],substrat:7,suggest:3,suit:2,sum:[0,7,8],sum_:0,summar:4,superior:5,suppli:[],support:[1,8],synapt:7,syntax:8,system:[0,1,4,5,7],t_0:5,t_insid:5,t_outsid:5,tab:3,tag:[],tail:0,take:[2,5,7,8],target:2,task:8,team:[2,8],technic:2,teknik:9,temperatur:[5,7],tempt:8,tend:7,term:[5,8],termin:1,test:8,text:[5,8],than:[5,7,8],thei:[1,5,7],them:[0,2,7],themselv:0,thereaft:5,therefor:2,thermal:5,thi:[0,1,2,3,5,6,7],thick:5,think:7,third:5,those:[4,6,7],thought:6,thread:8,three:[0,2,3,7],through:[],thu:[2,5,7],time:[0,5,7,8],time_text:5,timedanim:[],tissu:7,titl:[0,2,3,5,7,8],tn_cdi_springer_books_10_1007_978_0_387_70984_0:9,to_html5_video:[],to_jshtml:[],togeth:[5,8],too:[],tool:[0,2,6,8],top:8,topic:7,topolog:4,total:[0,8],total_fram:[],tour:[8,9],toward:[2,8,9],track:[4,7],tradit:8,train:[2,7],transform:[5,7],transmembran:7,transmiss:7,transport:7,transpos:8,treat:[7,8],treatment:7,tree:4,triangl:8,trigger:7,trivial:5,tupl:8,turn:[3,5],turnov:7,twinx:5,two:[0,2,4,5,8],tyical:8,type:[3,7],typic:[1,4,5,7,8],uncatalyz:7,under:8,underli:[6,8],understand:[0,2],unequ:8,unfil:8,uniqu:3,unique_id:0,unit:0,unless:8,unus:[],updat:5,upload:2,upon:2,upper:8,uptak:7,url:9,use:[0,2,3,4,5,7,8],used:[0,2,5,7,8],useful:1,user:[2,5,8],uses:8,using:[0,2,3,6,8],usual:[5,8],vai:5,valu:[0,5,6,8],valuabl:7,van16:[8,9],vanderpla:[8,9],variabl:5,variat:5,variou:[4,7],vast:8,vector:8,veloc:5,veri:[2,5,7],versatil:2,version:[1,2],vertic:8,via:[3,8],video:[],viru:7,visual:[0,8],volterra:[4,5],w3school:8,wai:[6,8],walk:0,wall:[],water:7,weak:4,wealth:0,web:[1,3,8],websit:1,weight:8,welcom:2,well:[2,7],were:[],what:0,when:[5,8],where:[0,4,5,8],whether:7,which:[0,1,2,4,5,7,8],whirlwind:[8,9],whirlwindtourofpython:9,wide:[2,5],widespread:2,width:[0,8],window:[1,8],without:[],word:[0,8],work:[1,2,4,5,6,8],would:[6,8],wrangl:6,write:5,writer:[],written:[1,3,4,5,7,8],www:9,x_i:0,xlabel:[0,3,5,8],xlim:[0,3,5,8],xls:6,xtick:0,xticklabel:6,y0_l:5,y_1:5,y_2:5,year:2,yet:2,yield:8,ylabel:[0,3,5,6,8],ylim:[0,3,5,8],you:[1,2,3,6,7,8],your:[0,1,2,3,6,7,8],ytick:0,zero:[5,8],zlib:1,zorder:[]},titles:["Agent-based modeling","Software installation","Introduction","Jupyter notebook","Mathematical modeling","Differential equations","Pandas","Project work","Python for this course","References"],titleterms:{"class":8,"function":8,"import":8,ODE:5,ODEs:5,agent:0,analys:6,analysi:5,anim:5,arrai:8,auto:3,base:0,bonu:5,cell:3,code:3,collect:0,commun:2,complet:3,condit:8,content:2,cours:8,creat:6,data:[0,6,8],datafram:6,deliver:2,dictionari:6,differ:5,differenti:5,document:8,equat:5,essenti:3,euler:5,exampl:3,explicit:5,fdm:5,figur:8,finit:5,form:5,from:6,heat:5,help:8,implicit:5,instal:1,introduct:2,iter:8,jupyt:3,keyboard:3,kutta:5,librari:5,manipul:6,materi:5,mathemat:4,mesa:0,method:5,model:[0,4,5],modul:8,motiv:8,necess:8,notebook:3,numer:5,object:8,oper:8,ordinari:5,organ:2,orient:8,panda:6,plot:[0,5,6,8],program:8,project:7,propos:7,python:[6,8],refer:9,result:0,run:0,rung:5,shortcut:3,simul:0,softwar:1,solut:5,solver:5,some:8,spreadsheet:6,store:0,text:3,thi:8,through:5,tip:3,transfer:5,type:8,wall:5,work:7}})

diff --git a/docs/agent.html b/docs/agent.html
@@ -480,19 +480,19 @@ N + 1 - \frac{2}{X} \sum_{i=1}^N (N+1-i) x_i
     </tr>
     <tr>
       <th>1</th>
-      <td>0.2744</td>
+      <td>0.3368</td>
     </tr>
     <tr>
       <th>2</th>
-      <td>0.4632</td>
+      <td>0.4408</td>
     </tr>
     <tr>
       <th>3</th>
-      <td>0.5056</td>
+      <td>0.5304</td>
     </tr>
     <tr>
       <th>4</th>
-      <td>0.5712</td>
+      <td>0.5632</td>
     </tr>
   </tbody>
 </table>
@@ -540,7 +540,7 @@ N + 1 - \frac{2}{X} \sum_{i=1}^N (N+1-i) x_i
     </tr>
     <tr>
       <th>47</th>
-      <td>1</td>
+      <td>6</td>
     </tr>
     <tr>
       <th>48</th>
@@ -548,7 +548,7 @@ N + 1 - \frac{2}{X} \sum_{i=1}^N (N+1-i) x_i
     </tr>
     <tr>
       <th>49</th>
-      <td>3</td>
+      <td>1</td>
     </tr>
   </tbody>
 </table>
@@ -569,11 +569,11 @@ Step AgentID
      3             1
      4             1
 ...              ...
-99   45            3
+99   45            0
      46            0
-     47            1
+     47            6
      48            0
-     49            3
+     49            1
 
 [5000 rows x 1 columns]
 </pre></div>
@@ -635,8 +635,8 @@ Step AgentID
 </div>
 </div>
 <div class="cell_output docutils container">
-<div class="output stream highlight-myst-ansi notranslate"><div class="highlight"><pre><span></span>Agent: 2
-Step: 33
+<div class="output stream highlight-myst-ansi notranslate"><div class="highlight"><pre><span></span>Agent: 34
+Step: 41
 </pre></div>
 </div>
 </div>

diff --git a/docs/python.html b/docs/python.html
@@ -587,10 +587,10 @@ Identity matrix:
 </div>
 </div>
 <div class="cell_output docutils container">
-<div class="output stream highlight-myst-ansi notranslate"><div class="highlight"><pre><span></span>  matmul:     1.2391 (ms)
+<div class="output stream highlight-myst-ansi notranslate"><div class="highlight"><pre><span></span>  matmul:     1.4939 (ms)
 </pre></div>
 </div>
-<div class="output stream highlight-myst-ansi notranslate"><div class="highlight"><pre><span></span>for loop:   774.8961 (ms)
+<div class="output stream highlight-myst-ansi notranslate"><div class="highlight"><pre><span></span>for loop:   789.6340 (ms)
 </pre></div>
 </div>
 </div>
